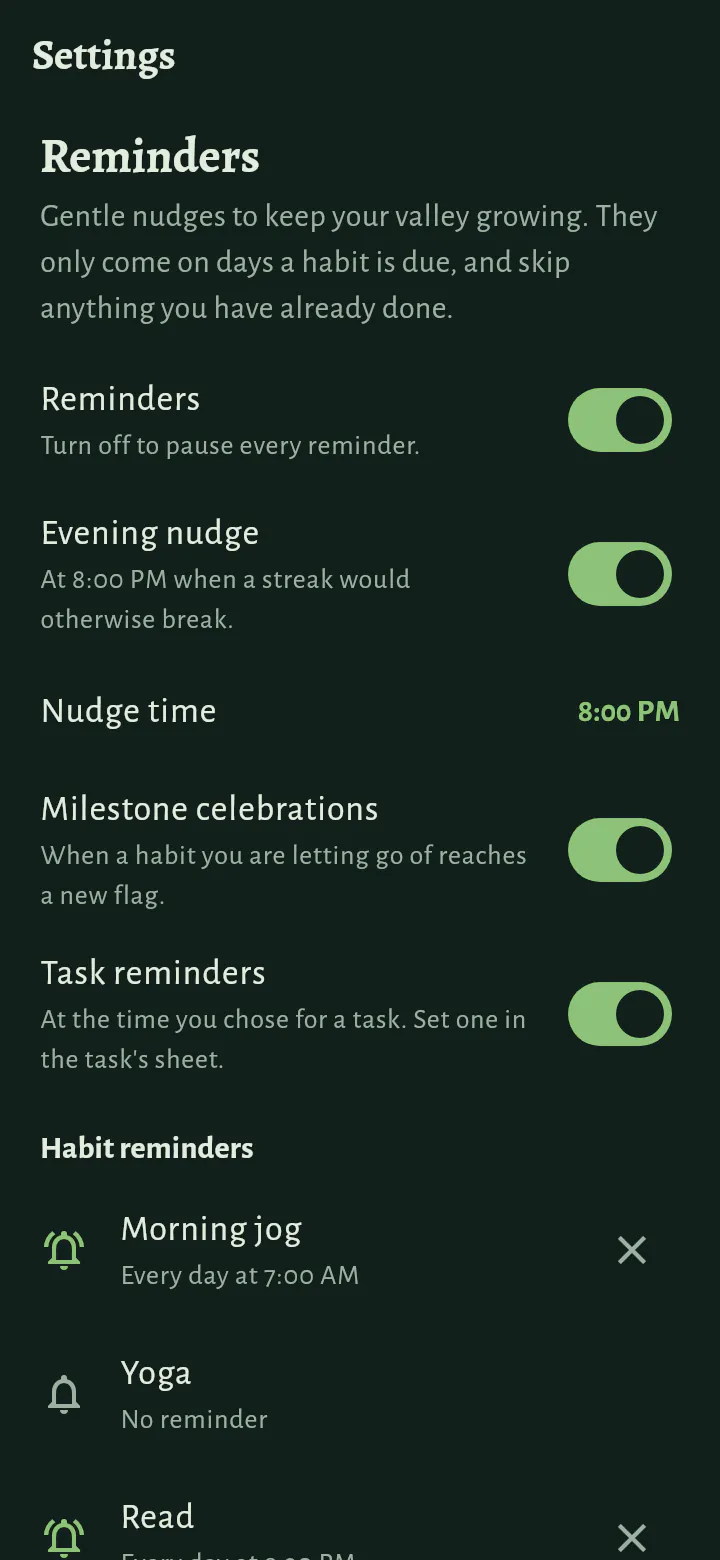
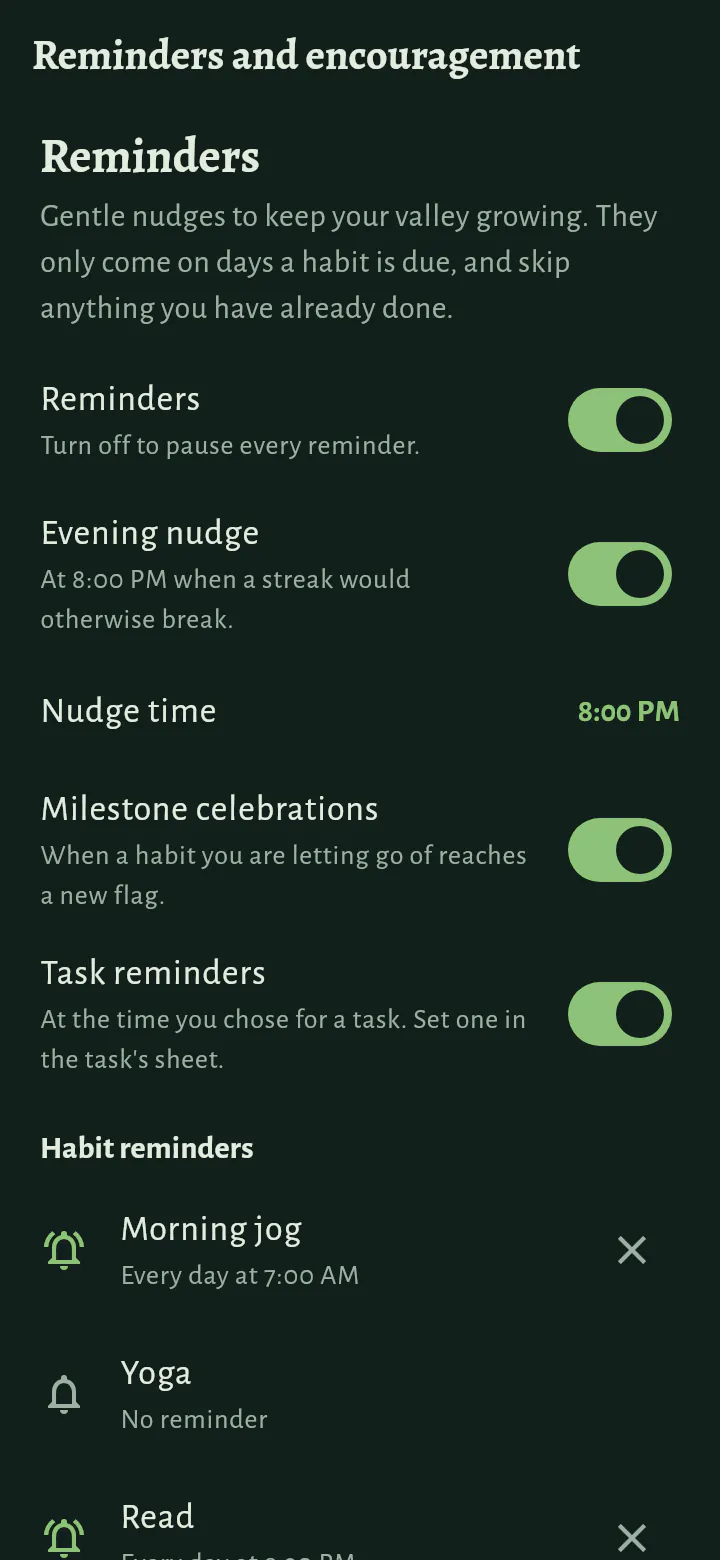
Update the Grove privacy policy and guide for Settings pages, tasks off at first and links

Changed region(s): [[0.0306, 0.0308, 0.7944, 0.0615]]

diff --git a/grove/guide/how-it-works.html b/grove/guide/how-it-works.html
@@ -538,7 +538,7 @@
 <li>for a habit with a goal, opens a sheet to log an amount, such as "2 km". Use − and +, then <strong>Save</strong>. Holding the drop fills the whole goal at once;</li>
 <li>for other habits, it reminds you to press and hold.</li>
 </ul></li>
-<li><strong>Water with a tap</strong> (Settings → Accessibility): one tap on the drop waters the habit, so you don't need to press and hold. <span class="since">Added in 1.1</span>
+<li><strong>Water with a tap</strong> (Settings → Look and feel): one tap on the drop waters the habit, so you don't need to press and hold. <span class="since">Added in 1.1</span>
 <ul>
 <li>A habit with a goal still opens the sheet to log an amount. It starts at your goal, so <strong>Save</strong> fills it.</li>
 <li>Pressing and holding still works too.</li>
@@ -694,7 +694,7 @@
 <section id="your-week" class="level3">
 <h3>Your week <span class="since">Added in 1.1</span></h3>
 <ul>
-<li>Weeks start on Monday at first. To start them on Sunday or Saturday, open Settings → Calendar → <strong>Week starts on</strong>.</li>
+<li>Weeks start on Monday at first. To start them on Sunday or Saturday, open Settings → Valley and calendar → <strong>Week starts on</strong>.</li>
 <li>The day you choose decides:
 <ul>
 <li>which days count together for a "Per week" habit: its sessions this week, its streak of weeks, and "2 of 3 this week" in the app and on the widgets;</li>
@@ -929,7 +929,7 @@
 <li>An old widget row or notification for it opens Archived habits, where it can be restored. <span class="since">Coming in 1.2</span></li>
 <li>The message after it has <strong>See archived</strong>.</li>
 </ul></li>
-<li><strong>Archived habits</strong> are in Settings → Archive. Each one has:
+<li><strong>Archived habits</strong> are in Settings → Valley and calendar → Archive. Each one has:
 <ul>
 <li><strong>Restore</strong>: it comes back at the end of your list, with all its history. It gets its place in the valley back if there is room. Its achievements are as before, and a Plant widget that showed it shows it again.</li>
 <li><strong>Delete for good</strong>: this removes it and all of its history.</li>
@@ -937,7 +937,7 @@
 </ul>
 <figure class="shot">
 <picture><source media="(prefers-color-scheme: dark)" srcset="shots/archived-dark-360.webp 360w, shots/archived-dark.webp 720w" sizes="(min-width: 48rem) 16rem, min(18rem, calc(100vw - 2rem))"><img src="shots/archived-360.webp" srcset="shots/archived-360.webp 360w, shots/archived.webp 720w" sizes="(min-width: 48rem) 16rem, min(18rem, calc(100vw - 2rem))" width="360" height="780" alt="The Archived habits page: &quot;2 archived habits. They rest here with all their history.&quot; Nail biting, a habit being let go of, and Floss, a growing fern, each with the day it was archived and the buttons Restore and Delete for good." loading="lazy" decoding="async"></picture>
-<figcaption>Settings → Archive, with two habits put away.</figcaption>
+<figcaption>Archive, on Settings → Valley and calendar, with two habits put away.</figcaption>
 </figure>
 <ul>
 <li>The <strong>⋮</strong> menu also has <strong>Delete habit</strong>. This removes the habit and all of its history from your valley. Its achievements stay.</li>
@@ -968,6 +968,11 @@
 <h2>Tasks <span class="since">Coming in 1.2</span></h2>
 <ul>
 <li>Tasks are one-off things to do, such as "Call the bank" or "Return the library book". They sit beside your habits, on their own page: <strong>Tasks</strong>, in the bar or the rail.</li>
+<li>Tasks are off at first. Turn them on in Settings → Tasks.
+<ul>
+<li>Turned off, they leave the bar, the Valley page and the sky, their reminders stop, and the Tasks widget and the <strong>Add a task</strong> shortcut go. Your tasks are kept, and come back as they were when you turn tasks on again.</li>
+<li>What they earned stays: a cottage already grown, and achievements.</li>
+</ul></li>
 <li><strong>Add a task</strong>: type it in the field at the top of the Tasks page and press Enter.
 <ul>
 <li>Tap a day under the field first to give it one: <strong>Today</strong>, <strong>Tomorrow</strong>, <strong>This weekend</strong>, <strong>Next week</strong>, or <strong>Pick a date</strong>. Tap the day again for no date.</li>
@@ -1170,7 +1175,7 @@
 <li>After a plant's streak of 3 days or more (2 weeks or more for "Per week" habits) ends, the habit's page shows a small card. It goes away when you water again, after 3 days, or when you close it.</li>
 <li>Any time: the habit's <strong>⋮</strong> menu → <strong>Motivate me</strong>.</li>
 </ul></li>
-<li>Turn the offers off in Settings → Encouragement. The menu entry stays.</li>
+<li>Turn the offers off in Settings → Reminders and encouragement. The menu entry stays.</li>
 </ul>
 </section>
 <section id="your-week-in-review" class="level2">
@@ -1219,7 +1224,7 @@
 <li>For the first 3 days of each week, the Valley page shows a small card under how today is going: "A new week has begun. Take a calm look back at the last one.", with <strong>See your week</strong>.</li>
 <li>It comes only when last week had something in it: a watering, an urge resisted or a clean day.</li>
 <li>It is never a popup and never a notification. It goes when you close it with <strong>✕</strong>, when you open the review, or after the third day.</li>
-<li>To stop it, turn off <strong>Weekly review card</strong> in Settings → Encouragement. <strong>Your week</strong> stays on the Achievements page.</li>
+<li>To stop it, turn off <strong>Weekly review card</strong> in Settings → Reminders and encouragement. <strong>Your week</strong> stays on the Achievements page.</li>
 </ul>
 </section>
 </section>
@@ -1284,14 +1289,14 @@
 <li>It follows the smallest turn of your hand straight away. Hold the device still and the valley settles back to the middle in a few seconds. <span class="since">Added in 1.1</span></li>
 <li>The bigger the screen, the further the valley moves, so it shows on a tablet too. <span class="since">Added in 1.1</span></li>
 <li>On a computer, the mouse does it: move it toward an edge of the window to look into the valley from that side. The middle of the window is still, and the valley glides back when the mouse leaves the window. <span class="since">Added in 1.1</span></li>
-<li>To keep the valley still, turn off <strong>Tilt the valley</strong> in Settings → Zen mode. Grove then doesn't use the motion sensors at all. <span class="since">Added in 1.1</span></li>
+<li>To keep the valley still, turn off <strong>Tilt the valley</strong> in Settings → Look and feel → Zen mode. Grove then doesn't use the motion sensors at all. <span class="since">Added in 1.1</span></li>
 </ul></li>
 <li>Zen mode also cares for the screen by itself:
 <ul>
 <li><strong>Night dimming</strong>: late at night the screen dims, and it brightens again around dawn.</li>
 <li><strong>Burn-in care</strong>: the picture moves a few pixels every 3 minutes, so nothing stays in one place for hours.</li>
 <li>If animations are turned off in your device's settings, the valley stays still and there is no tilt.</li>
-<li>It draws 30 frames per second by default, to save battery. Choose 30, 60 or <strong>Max</strong> in Settings → Zen mode. Max uses the fastest your screen can show, such as 90 or 120.</li>
+<li>It draws 30 frames per second by default, to save battery. Choose 30, 60 or <strong>Max</strong> in Settings → Look and feel → Zen mode. Max uses the fastest your screen can show, such as 90 or 120.</li>
 <li>Grove also asks the phone for a screen speed that suits the choice, such as 60 Hz for 30 or 60 frames, which saves battery. Leaving zen gives the choice back to the phone.</li>
 </ul></li>
 </ul>
@@ -1339,6 +1344,7 @@
 </ul></li>
 <li><strong>Tasks</strong> (4×2, and any size from 2×2 up): today's tasks. <span class="since">Coming in 1.2</span>
 <ul>
+<li>While tasks are off (see <a href="#tasks">Tasks</a>), it says so. Tap it to turn them on in Settings.</li>
 <li>It lists the tasks due today and those moved on from a day that has passed, starred first, as the Valley page does. Each row shows its list, its time or where it came from, such as "from Fri", and its steps.</li>
 <li>Tap the circle to finish a task. Tap the rest of the row to open the task in Grove, or <strong>+</strong> to add one.</li>
 <li>When every task for today is done, it says so, with how many are due tomorrow.</li>
@@ -1374,7 +1380,7 @@
 <li>with more than one, it asks "Which urge did you resist?". Tap the habit;</li>
 <li>with none yet, it offers to add one.</li>
 </ul></li>
-<li><strong>Add a task</strong>: opens a new task on the Tasks page. <span class="since">Coming in 1.2</span></li>
+<li><strong>Add a task</strong>: opens a new task on the Tasks page. Only while tasks are on (see <a href="#tasks">Tasks</a>). <span class="since">Coming in 1.2</span></li>
 </ul></li>
 <li>You can drag a shortcut onto your home screen to keep it there.</li>
 <li>The shortcuts show once you have opened Grove once.</li>
@@ -1384,11 +1390,11 @@
 <section id="reminders-android" class="level2">
 <h2>Reminders (Android)</h2>
 <ul>
-<li>Each habit you build can have its own reminder. Turn on <strong>Remind me</strong> when you add or edit the habit, or set the time in Settings → Reminders.</li>
+<li>Each habit you build can have its own reminder. Turn on <strong>Remind me</strong> when you add or edit the habit, or set the time in Settings → Reminders and encouragement.</li>
 </ul>
 <figure class="shot">
 <picture><source media="(prefers-color-scheme: dark)" srcset="shots/reminders-dark-360.webp 360w, shots/reminders-dark.webp 720w" sizes="(min-width: 48rem) 16rem, min(18rem, calc(100vw - 2rem))"><img src="shots/reminders-360.webp" srcset="shots/reminders-360.webp 360w, shots/reminders.webp 720w" sizes="(min-width: 48rem) 16rem, min(18rem, calc(100vw - 2rem))" width="360" height="780" alt="The top of Settings: Reminders, with switches for Reminders, Evening nudge, Milestone celebrations and Task reminders, and the nudge time, 8:00 PM. Under Habit reminders, a row for each habit: Morning jog, &quot;Every day at 7:00 AM&quot;; Yoga, &quot;No reminder&quot;; and Read, with its reminder." loading="lazy" decoding="async"></picture>
-<figcaption>Settings → Reminders, with a reminder for Morning jog and one for Read.</figcaption>
+<figcaption>Reminders, on Settings → Reminders and encouragement, with a reminder for Morning jog and one for Read.</figcaption>
 </figure>
 <ul>
 <li>Grove asks for permission to send notifications only when you turn a reminder on.</li>
@@ -1412,7 +1418,7 @@
 <ul>
 <li>It comes however far off it is, even if you don't open Grove before then, and not if the task is done by then.</li>
 <li>Tap it to open the task. Its buttons work without opening Grove: <strong>Done</strong> finishes the task; <strong>Remind me in an hour</strong> puts it off; and <strong>Tomorrow</strong> moves the task to tomorrow, its reminder too, at the same times.</li>
-<li>The <strong>Task reminders</strong> switch in Settings → Reminders turns them all off.</li>
+<li>The <strong>Task reminders</strong> switch in Settings → Tasks turns them all off. With tasks off, none come.</li>
 </ul></li>
 <li>Reminders may come a few minutes late. Grove does not ask for the "exact alarms" permission.</li>
 <li>The <strong>Reminders</strong> switch in Settings pauses all reminders, and any you put off. <strong>Send a test reminder</strong> shows one straight away.</li>
@@ -1421,7 +1427,7 @@
 <section id="privacy-android" class="level2">
 <h2>Privacy (Android) <span class="since">Added in 1.1</span></h2>
 <ul>
-<li>Settings → Privacy → <strong>Keep quit habits private</strong>.</li>
+<li>Settings → Backup and privacy → <strong>Keep quit habits private</strong>.</li>
 <li>When it is on, the names of habits you are letting go of stay inside Grove:
 <ul>
 <li>widgets say "Private habit" instead of the name;</li>
@@ -1479,7 +1485,7 @@
 <li>tap <strong>Choose my city</strong> and search a list built into the app, or</li>
 <li>tap <strong>Skip</strong>, and Grove guesses from your time zone.</li>
 </ul></li>
-<li>Change it any time in Settings → Your sky, where you can also type your coordinates or go back to the guess.</li>
+<li>Change it any time in Settings → Valley and calendar → Your sky, where you can also type your coordinates or go back to the guess.</li>
 <li>Grove never asks for location permission and never reads where your phone is. The place stays on your phone and in your own backups.</li>
 <li>More in <a href="weather-and-seasons.html">Weather and seasons</a>.</li>
 </ul>
@@ -1487,7 +1493,7 @@
 <section id="backup" class="level2">
 <h2>Backup</h2>
 <ul>
-<li>Settings → Backup → <strong>Save a backup file</strong> saves everything into one file: all habits with their full history and milestones, archived habits, pauses and their reasons, the notes on urges and slips, your tasks <span class="since">Coming in 1.2</span>, the activity log, your achievements and unlocks, and your settings.
+<li>Settings → Backup and privacy → <strong>Save a backup file</strong> saves everything into one file: all habits with their full history and milestones, archived habits, pauses and their reasons, the notes on urges and slips, your tasks <span class="since">Coming in 1.2</span>, the activity log, your achievements and unlocks, and your settings.
 <ul>
 <li>The file name has the date and the local time it was made, such as <code class="verbatim">grove-backup-2026-09-29-23.14.json</code>.</li>
 <li><strong>Share a backup</strong> sends the file to another app instead, such as your email or cloud storage.</li>
@@ -1506,7 +1512,7 @@
 <section id="automatic-backups" class="level3">
 <h3>Automatic backups <span class="since">Added in 1.1</span></h3>
 <ul>
-<li>Settings → Backup → <strong>Automatic backups</strong>: Grove saves a backup file for you, in a folder you choose. It is off at first.</li>
+<li>Settings → Backup and privacy → <strong>Automatic backups</strong>: Grove saves a backup file for you, in a folder you choose. It is off at first.</li>
 <li>When you turn it on, Grove asks for a folder:
 <ul>
 <li>on Android, the phone's own folder picker opens in Documents. Pick a folder, or make one such as "Grove backups", then tap <strong>Use this folder</strong> and <strong>Allow</strong>. Grove needs no storage permission for this;</li>
@@ -1560,31 +1566,42 @@
 <section id="settings" class="level2">
 <h2>Settings</h2>
 <ul>
-<li>Everything that is not a habit is on one Settings page. Open it from the button at the end of the Valley page.</li>
-<li>Sections:
+<li>Settings is a short list of pages. Open it from the button at the end of the Valley page, then tap a page. <span class="since">Coming in 1.2</span></li>
+<li>On a wide window, such as a tablet held sideways or a computer, the list and the page you choose sit side by side. <span class="since">Coming in 1.2</span></li>
+<li>The pages:
 <ul>
-<li><strong>Reminders</strong> (on Android)</li>
+<li><strong>Reminders and encouragement</strong>:
+<ul>
+<li><strong>Reminders</strong> (on Android).</li>
 <li><strong>Encouragement</strong>: offer the Motivate me page after a setback.
 <ul>
 <li><strong>Weekly review card</strong>: on at first. For the first 3 days of each week, a card on the Valley page offers a look back at the last one (see <a href="#your-week-in-review">Your week in review</a>). <span class="since">Added in 1.1</span></li>
 </ul></li>
-<li><strong>Sounds</strong>: app sounds, how loud they are, and valley sounds.
-<ul>
-<li>On Android it is <strong>Sounds and vibration</strong>, with <strong>Vibration</strong> too (see <a href="#vibration-android">Vibration</a>). <span class="since">Added in 1.1</span></li>
 </ul></li>
+<li><strong>Sounds and vibration</strong>: app sounds, how loud they are, valley sounds, and <strong>Vibration</strong> (see <a href="#vibration-android">Vibration</a>). On a computer it is just <strong>Sounds</strong>. <span class="since">Added in 1.1</span></li>
+<li><strong>Look and feel</strong>:
+<ul>
 <li><strong>Theme</strong>: <strong>System</strong>, <strong>Light</strong> or <strong>Dark</strong>. <span class="since">Added in 1.1</span></li>
 <li><strong>Accessibility</strong>: <strong>Water with a tap</strong>. <span class="since">Added in 1.1</span></li>
-<li><strong>Your sky</strong>: where you are, for the sun, the moon and the climate.</li>
-<li><strong>Calendar</strong>: the day your week starts on: Monday, Sunday or Saturday (see <a href="#your-week">Your week</a>). <span class="since">Added in 1.1</span></li>
-<li><strong>Your valley</strong>: choose what grows.</li>
-<li><strong>Archive</strong>: your archived habits, to restore or delete for good.</li>
 <li><strong>Zen mode</strong>: frames a second (30, 60 or Max), and <strong>Tilt the valley</strong>. <span class="since">Added in 1.1</span></li>
-<li><strong>Home-screen widgets</strong> (on Android)</li>
-<li><strong>Privacy</strong> (on Android): keep quit habits private.</li>
-<li><strong>Backup</strong>: save, share or restore a backup file, and automatic backups to a folder you choose. <span class="since">Added in 1.1</span></li>
-<li><strong>About</strong>: version, <strong>Share Grove</strong>, open-source licences.</li>
 </ul></li>
-<li>Grove's colours follow your device's light or dark mode at first. To keep them light or dark, pick <strong>Light</strong> or <strong>Dark</strong> in Settings → Theme. <strong>System</strong> follows the device again.</li>
+<li><strong>Valley and calendar</strong>:
+<ul>
+<li><strong>Your sky</strong>: where you are, for the sun, the moon and the climate.</li>
+<li><strong>Your valley</strong>: choose what grows.</li>
+<li><strong>Calendar</strong>: the day your week starts on: Monday, Sunday or Saturday (see <a href="#your-week">Your week</a>). <span class="since">Added in 1.1</span></li>
+<li><strong>Archive</strong>: your archived habits, to restore or delete for good.</li>
+</ul></li>
+<li><strong>Tasks</strong>: turn tasks on, and their reminders. Off at first. The list says <strong>On</strong> or <strong>Off</strong> beside it.</li>
+<li><strong>Home-screen widgets</strong> (on Android).</li>
+<li><strong>Backup and privacy</strong> (just <strong>Backup</strong> on a computer):
+<ul>
+<li><strong>Backup</strong>: save, share or restore a backup file, and automatic backups to a folder you choose. <span class="since">Added in 1.1</span></li>
+<li><strong>Privacy</strong> (on Android): keep quit habits private.</li>
+</ul></li>
+<li><strong>About</strong>: version, <strong>Share Grove</strong>, <strong>User guide</strong> and <strong>Join us on Discord</strong>, and open-source licences. The two links open in your browser, or the Discord app; Grove itself never goes online. <span class="since">Coming in 1.2</span></li>
+</ul></li>
+<li>Grove's colours follow your device's light or dark mode at first. To keep them light or dark, pick <strong>Light</strong> or <strong>Dark</strong> in Settings → Look and feel → Theme. <strong>System</strong> follows the device again.</li>
 </ul>
 </section>
 <section id="screen-sizes-phones-tablets-foldables-and-desktop" class="level2">

diff --git a/grove/guide/whats-new.html b/grove/guide/whats-new.html
@@ -318,6 +318,7 @@
 <ul>
 <li><a href="#tasks" id="toc-tasks">Tasks</a></li>
 <li><a href="#habits" id="toc-habits">Habits</a></li>
+<li><a href="#settings" id="toc-settings">Settings</a></li>
 <li><a href="#fixes" id="toc-fixes">Fixes</a></li>
 </ul></li>
 <li><a href="#grove-1.1-october-2026" id="toc-grove-1.1-october-2026">Grove 1.1, October 2026</a>
@@ -336,7 +337,7 @@
 <section id="tasks" class="level3">
 <h3>Tasks</h3>
 <ul>
-<li>Tasks: one-off things to do, such as "Call the bank", on a new Tasks page in the bar.</li>
+<li>Tasks: one-off things to do, such as "Call the bank", on a new Tasks page in the bar. They are off at first: turn them on in Settings, Tasks. Turned off again, they are kept for when you want them back.</li>
 <li>Add a task from the field at the top of the page, for today, tomorrow, this weekend, next week or a day you pick, or with no date.</li>
 <li>Tasks are grouped by day. A task whose day has passed moves into today, quietly, with a small note such as "from Fri".</li>
 <li>Give a task a note or a time, and star it to put it first in its day.</li>
@@ -345,7 +346,7 @@
 <li>A month view of your tasks, with a mark on each day that has some. On a wide window it sits beside the list.</li>
 <li>"Add a task" when you press and hold Grove's icon.</li>
 <li>A Tasks widget for your home screen: today's tasks. Tap a circle to finish one, or + to add one.</li>
-<li>A reminder for a task, at the day and time you choose, with Done, Remind me in an hour and Tomorrow on it. Turn task reminders off in Settings, Reminders.</li>
+<li>A reminder for a task, at the day and time you choose, with Done, Remind me in an hour and Tomorrow on it. Turn task reminders off in Settings, Tasks.</li>
 <li>Finished tasks go to the Done list, where you can put one back.</li>
 <li>The Valley page lists today's tasks under your habits.</li>
 <li>Today's tasks count for the sky, as habits do: the clouds clear and the rain eases as you finish them, and the valley turns golden once everything due today is done.</li>
@@ -361,6 +362,13 @@
 <ul>
 <li>Edit history, in the ⋮ menu on a habit's page: every change to its name, plant, days, goal, reminder, costs or milestones, newest first.</li>
 <li>Opening a habit, its name moves from its row to the heading on its page, and back again.</li>
+</ul>
+</section>
+<section id="settings" class="level3">
+<h3>Settings</h3>
+<ul>
+<li>Settings is now a short list of pages, such as Look and feel or Backup and privacy, rather than one long page. On a wide window the list and a page sit side by side.</li>
+<li>Settings, About has links to the user guide and to Grove's Discord. They open in your browser.</li>
 </ul>
 </section>
 <section id="fixes" class="level3">

diff --git a/grove/privacy.html b/grove/privacy.html
@@ -29,7 +29,7 @@
 <body>
 <main>
 <h1>Grove privacy policy</h1>
-<p class="quiet">Effective 4 October 2026. Grove is made by MTWABP In.</p>
+<p class="quiet">Effective 5 October 2026. Grove is made by MTWABP In.</p>
 
 <div class="summary">
   <p><strong>In short:</strong> Grove does not collect your data. It has no account, no ads,
@@ -99,6 +99,12 @@ home-screen widgets don't show the names of the habits you are letting go of.</p
 <p>Grove can make a picture of your progress or your valley. It leaves your phone only
 if you choose to share it, through your phone's share menu, to an app you pick.</p>
 
+<h2>Links</h2>
+<p>Settings has two links: Grove's user guide, on this website, and Grove's Discord. When you
+tap one, your browser or the Discord app opens it. Grove itself still never goes online,
+and sends nothing with the link. What you do there is covered by those sites' own
+policies.</p>
+
 <h2>Permissions</h2>
 <ul>
   <li><strong>Notifications</strong> (optional): for reminders of habits and tasks,
@@ -116,7 +122,7 @@ anyone.</p>
 
 <h2>Deleting your data</h2>
 <p>You can delete any habit or task in Grove. An archived habit keeps its history until you
-delete it from Settings, Archive, and a finished task stays in the Done list until you
+delete it from Settings, Valley and calendar, and a finished task stays in the Done list until you
 delete it or clear the list. To remove everything, uninstall Grove or clear its storage in
 your phone's settings. Backup files are yours to delete, automatic ones too: they stay in
 their folder after Grove is uninstalled.</p>

diff --git a/grove/guide/achievements.html b/grove/guide/achievements.html
@@ -307,7 +307,7 @@
 <main id="text" class="column">
   <h1>Achievements and unlocks</h1>
   <p class="lead">Every achievement and every thing to find in your valley, and how to get each one.</p>
-  <p class="updated">Updated <time datetime="2026-10-04">4 October 2026</time></p>
+  <p class="updated">Updated <time datetime="2026-10-05">5 October 2026</time></p>
   <div class="intro">
 <p>Grove has two pages that remember what you did:</p>
 <ul>
@@ -397,7 +397,7 @@
 <li>Days when the habit was paused don't break a streak (see <a href="how-it-works.html#pausing-a-habit">How Grove works</a>).</li>
 <li>For habits due "a number of times each week", Grove counts <strong>weeks in a row</strong> instead: 2, 4, 8, 12, 26, 52 and 104 weeks.
 <ul>
-<li>Weeks start on the day you choose in Settings → Calendar, and a habit's first week asks for less when you start mid-week (see <a href="how-it-works.html#your-week">How Grove works</a>). Changing the week start groups past weeks again, but never takes an achievement away. <span class="since">Added in 1.1</span></li>
+<li>Weeks start on the day you choose in Settings → Valley and calendar, and a habit's first week asks for less when you start mid-week (see <a href="how-it-works.html#your-week">How Grove works</a>). Changing the week start groups past weeks again, but never takes an achievement away. <span class="since">Added in 1.1</span></li>
 </ul></li>
 </ul></li>
 <li><strong>Growth stages</strong>: the first sprout, a sapling, fully grown, thriving.

diff --git a/grove/guide/weather-and-seasons.html b/grove/guide/weather-and-seasons.html
@@ -307,7 +307,7 @@
 <main id="text" class="column">
   <h1>Weather and seasons</h1>
   <p class="lead">Your place and your climate, the seasons, rain and rainbows, and the real sun and moon.</p>
-  <p class="updated">Updated <time datetime="2026-10-04">4 October 2026</time></p>
+  <p class="updated">Updated <time datetime="2026-10-05">5 October 2026</time></p>
   <div class="intro">
 <p>The valley has real time of day, real seasons and its own weather. This page explains how they work.</p>
 <ul>
@@ -348,7 +348,7 @@
 <li>your climate, which sets the seasons and, with them, the rain.</li>
 </ul></li>
 <li>The first time Grove opens, it asks "Where do you live?". Tap <strong>Choose my city</strong>, or <strong>Skip</strong>.</li>
-<li>Change it any time in Settings → Your sky. You can:
+<li>Change it any time in Settings → Valley and calendar → Your sky. You can:
 <ul>
 <li>search for your city in a list built into the app,</li>
 <li><strong>Enter coordinates</strong>: a latitude and a longitude from any map. Grove names the nearest city, or</li>
